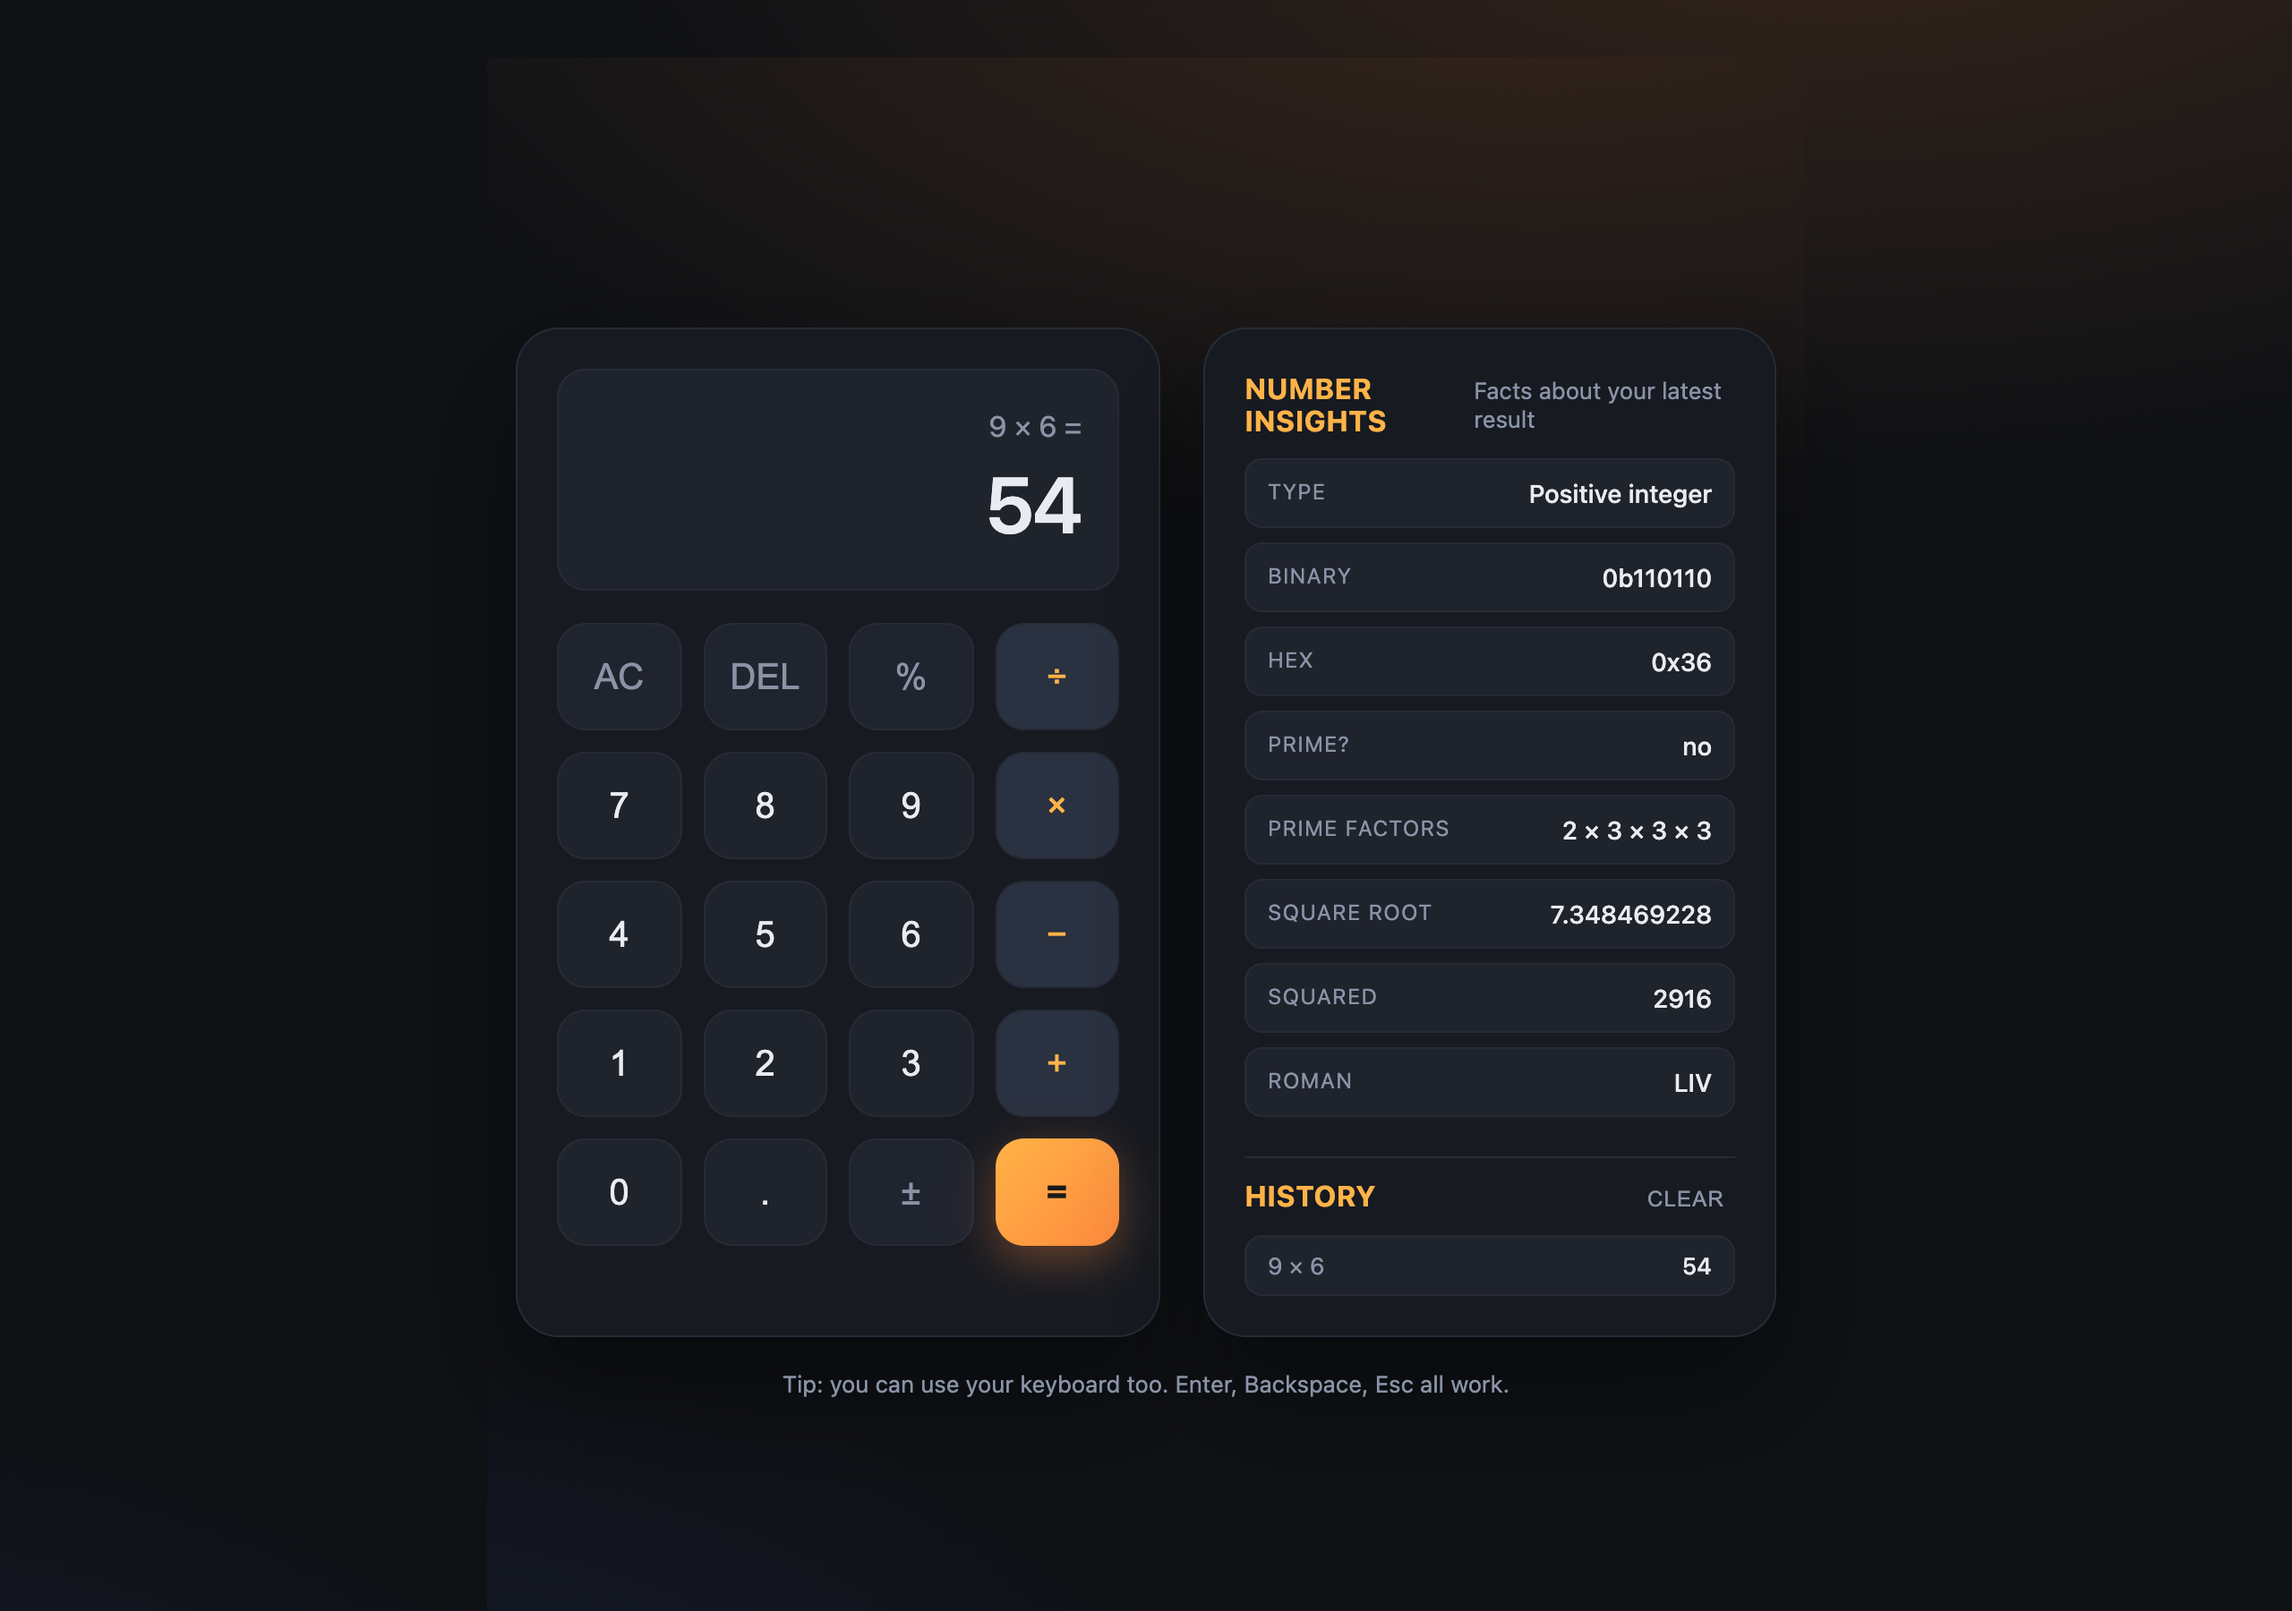
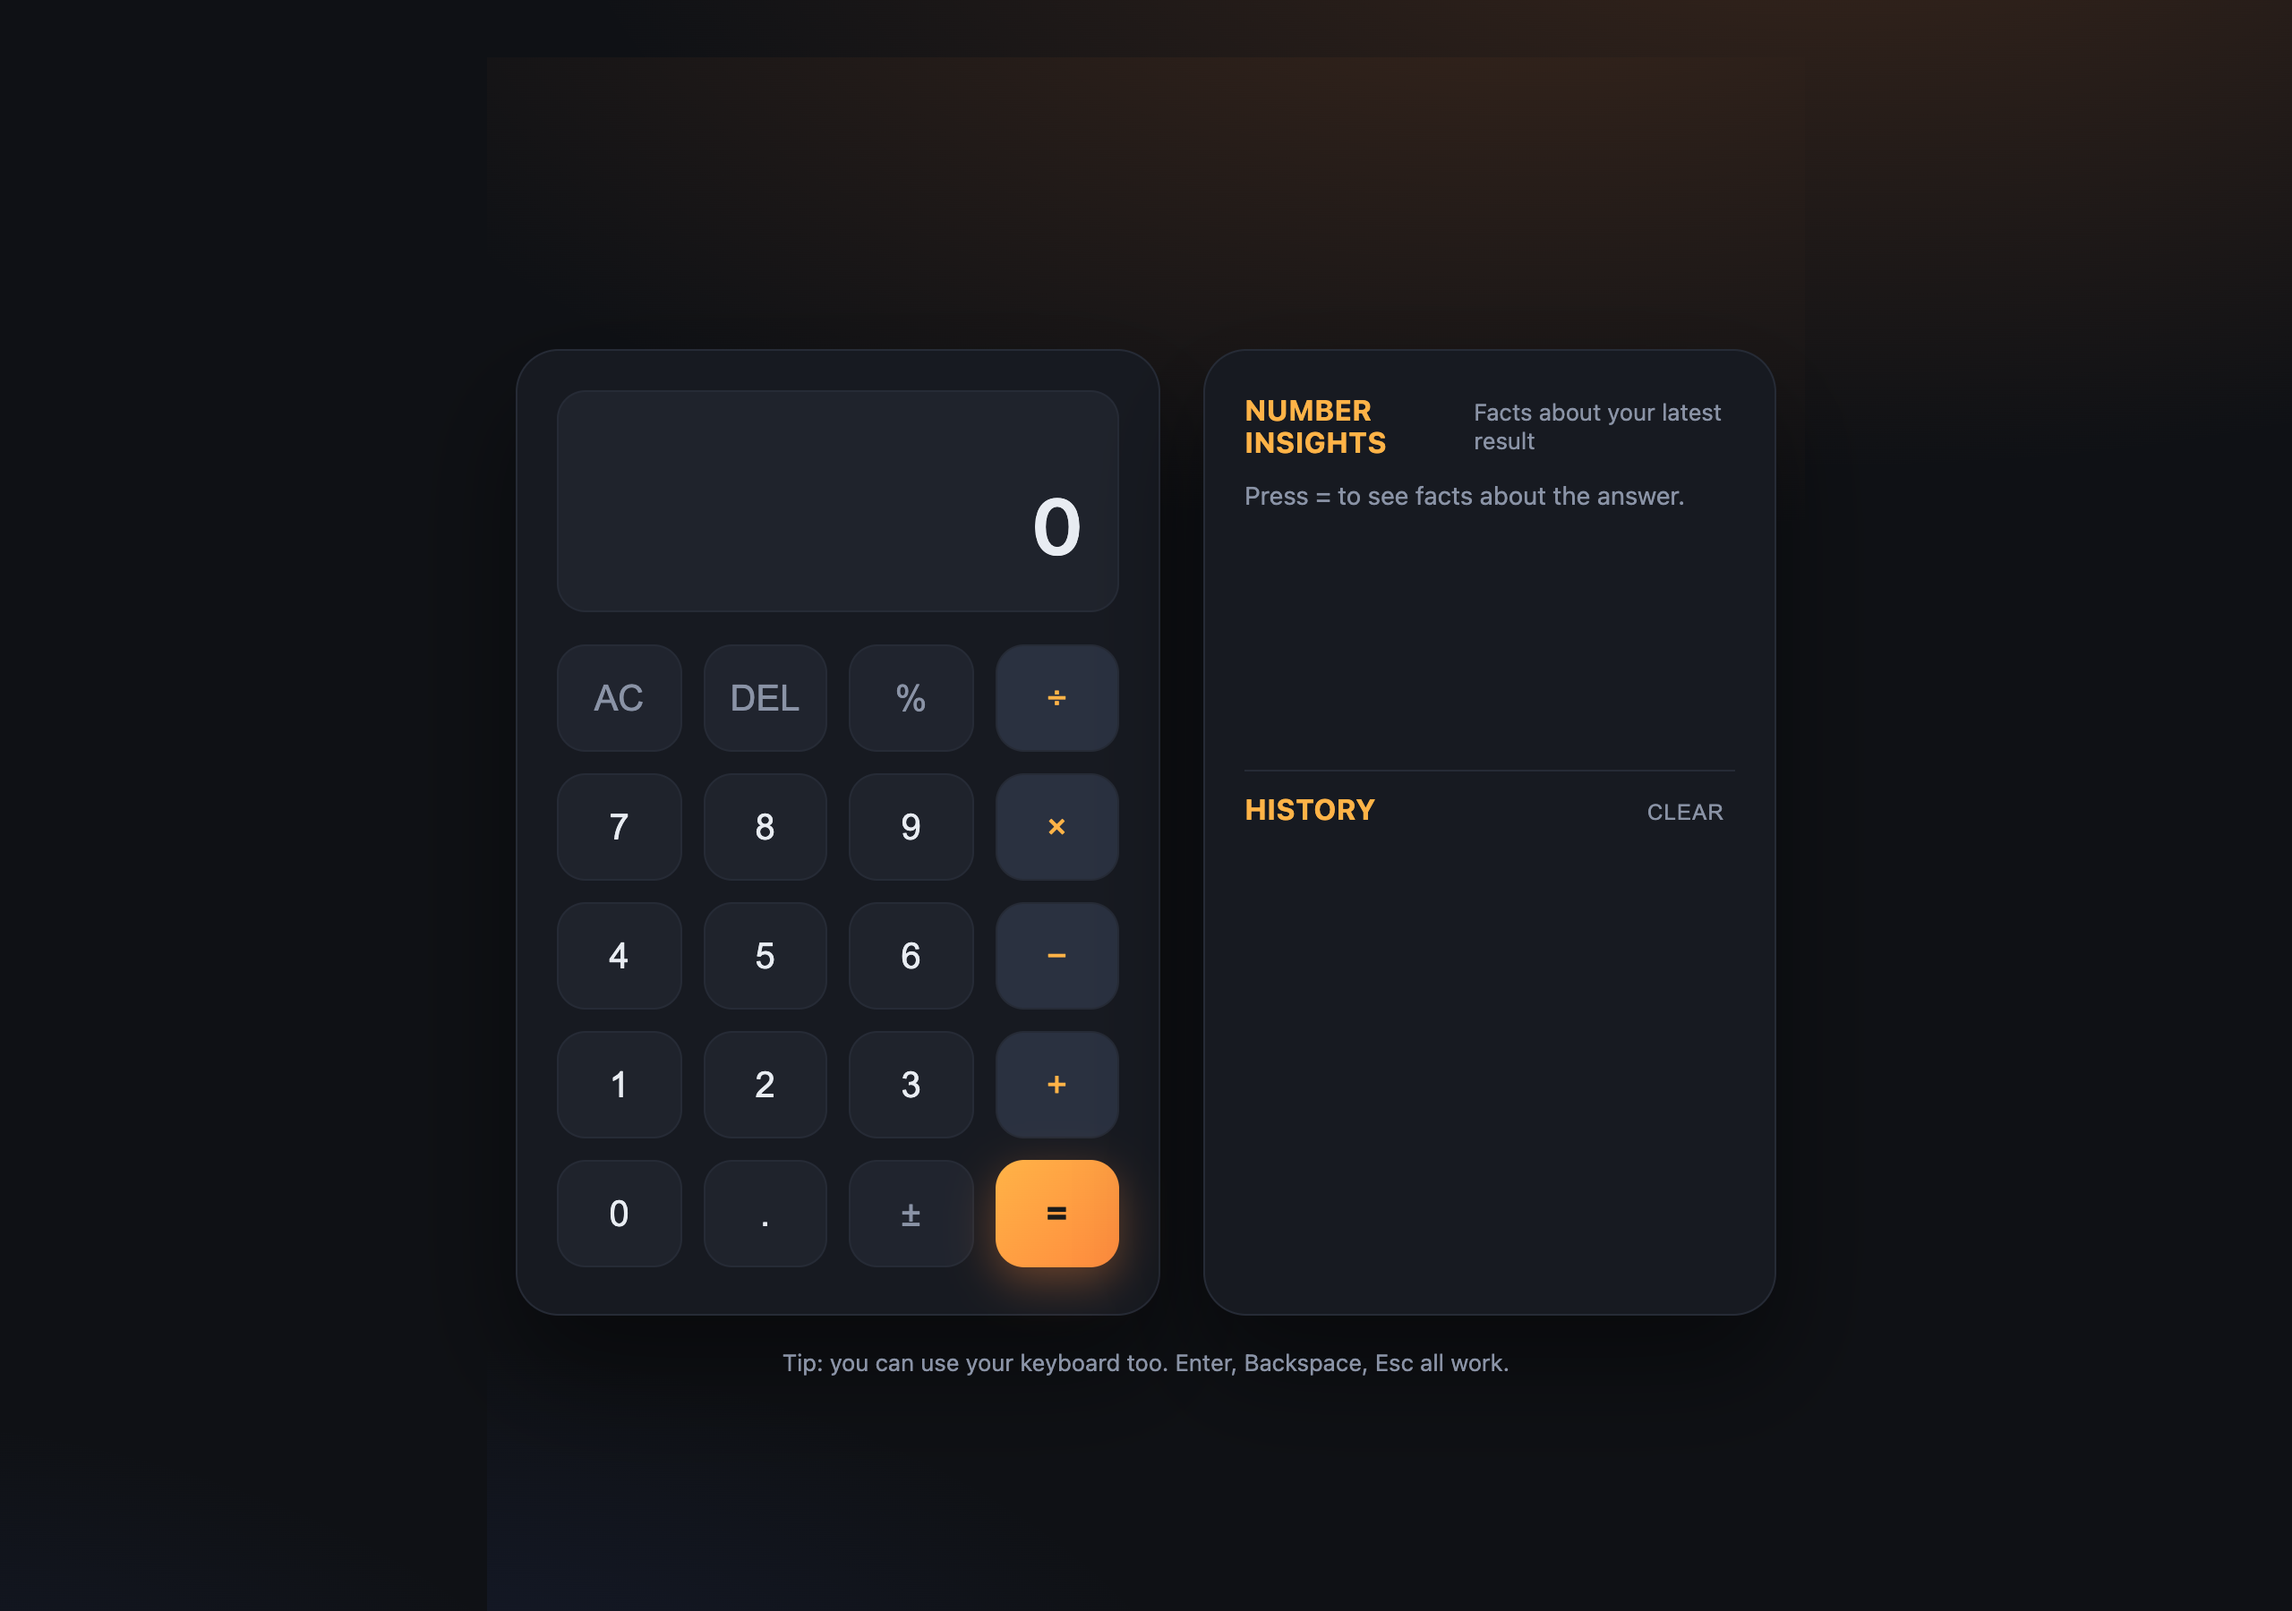
add screenshots to readme

diff --git a/README.md b/README.md
@@ -1,6 +1,9 @@
 # Calculator
 
-![](docs/screenshot.png)
+<p align="center">
+  <img src="docs/screenshot.png" width="48%"/>
+  <img src="docs/screenshot-2.png" width="48%"/>
+</p>
 
 Small calculator I built one evening. Does the usual math, but I added a little side panel that shows random facts about whatever number you just calculated. Felt like a fun extra.
 
